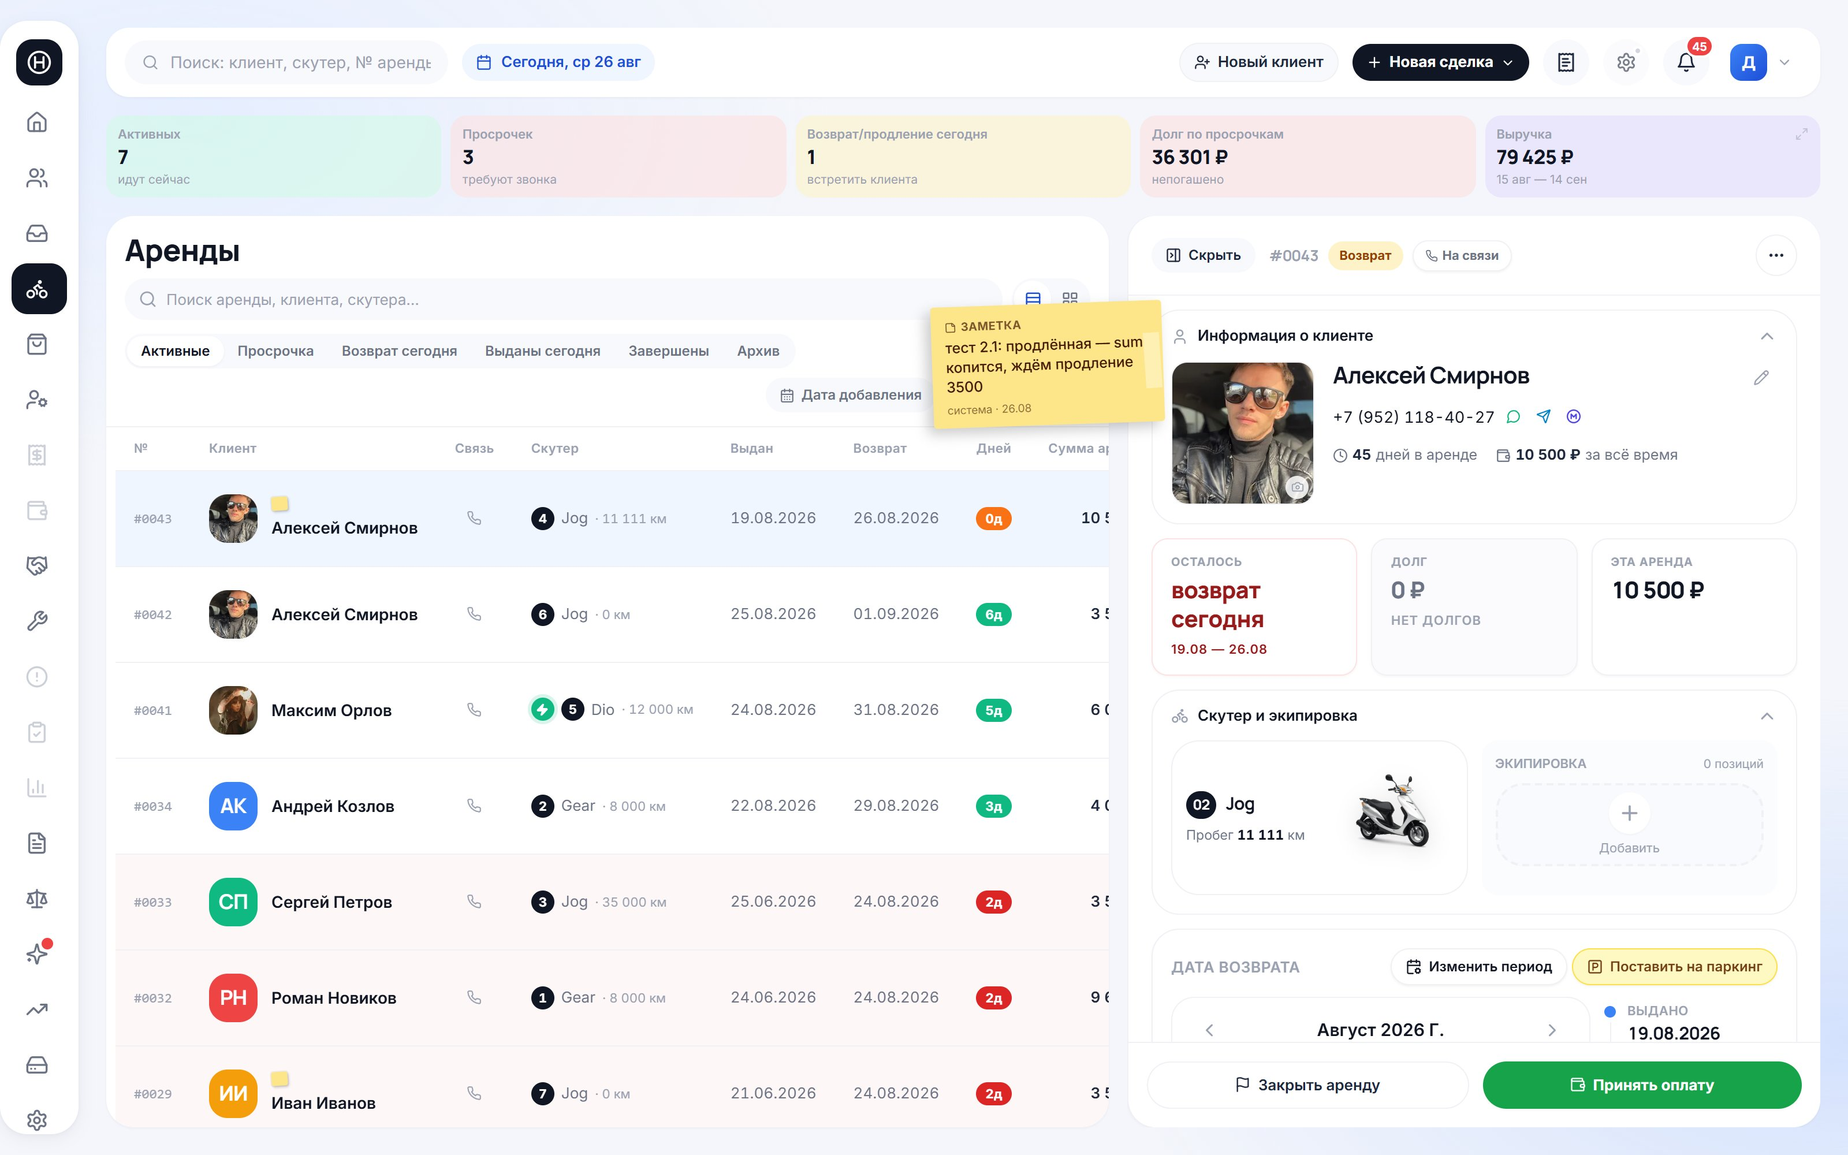
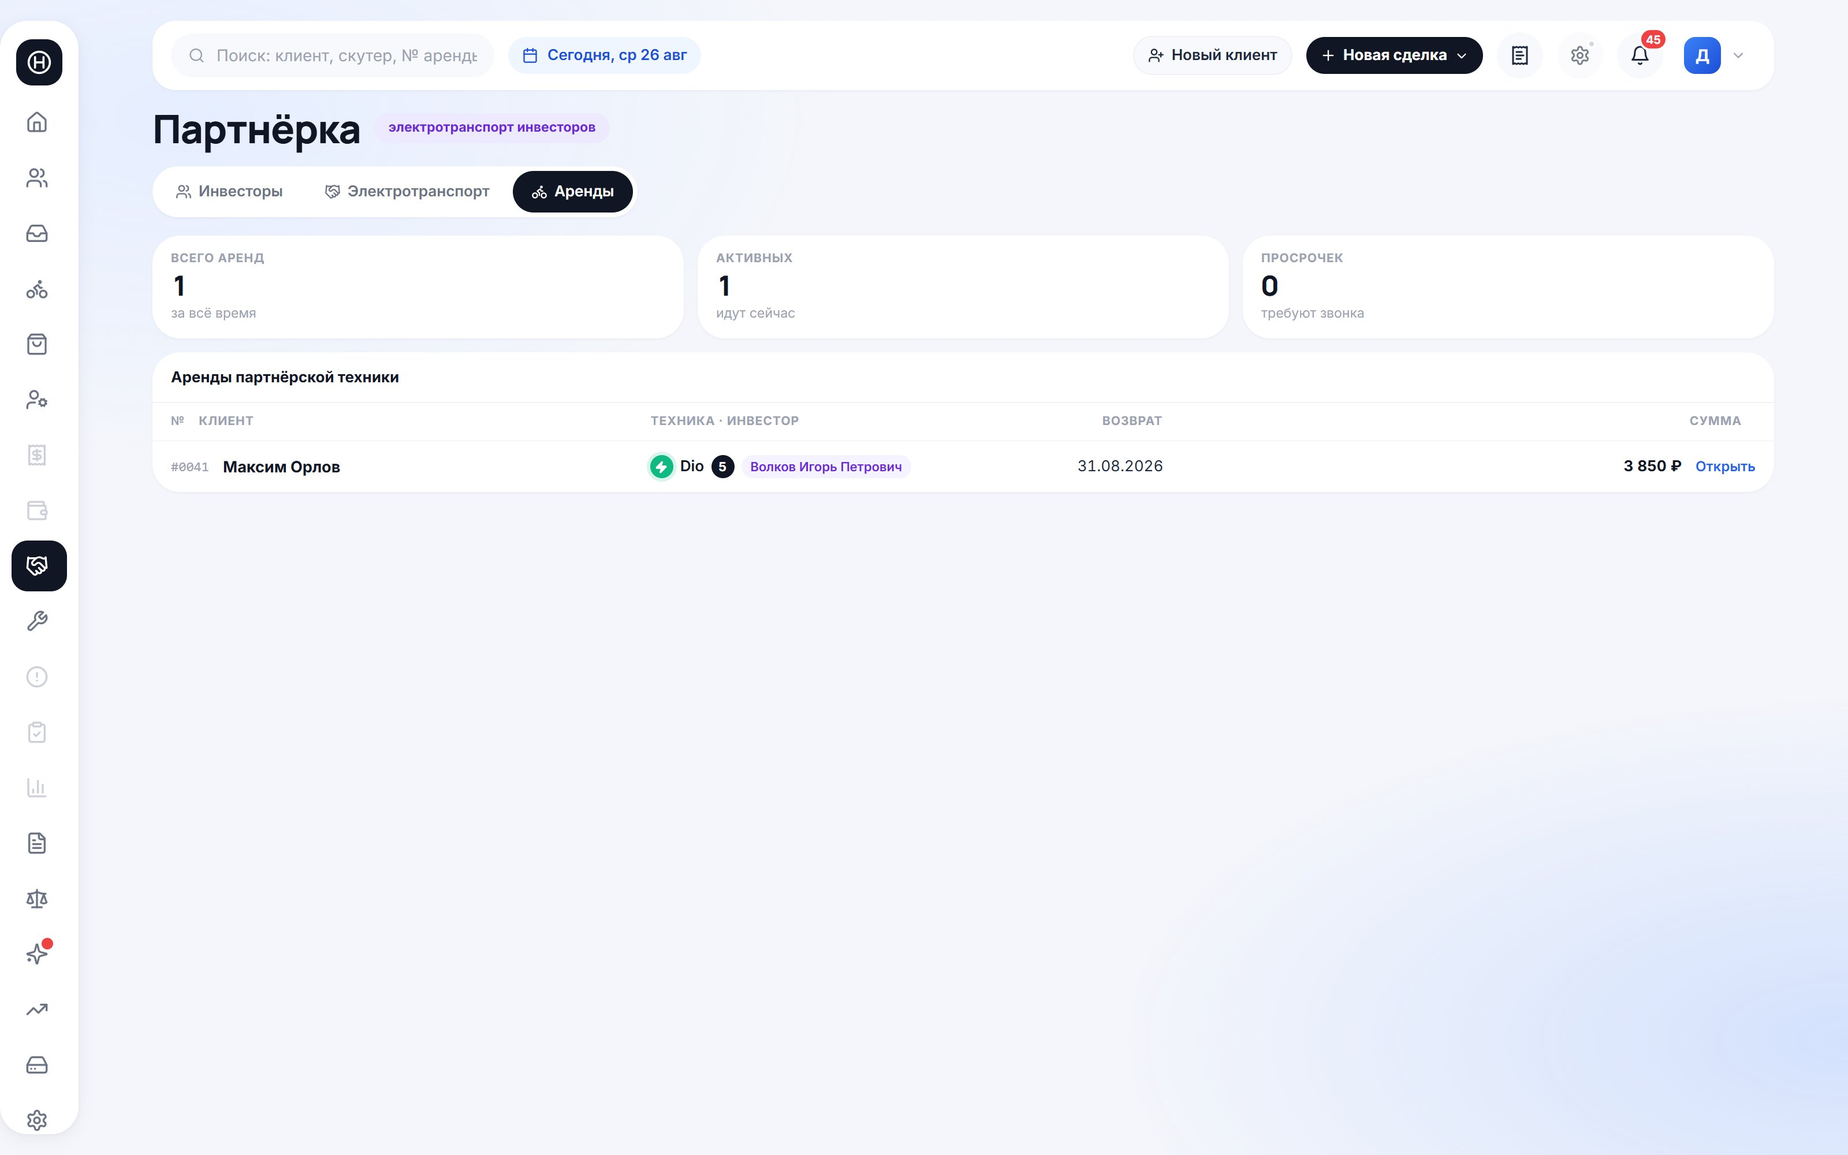
docs(правки-2.0): истории 2.5-2.9 (партнёрка) с кадрами живой проверки

diff --git a/apps/web/src/data/progress.ts b/apps/web/src/data/progress.ts
@@ -1028,7 +1028,24 @@ export const progressItems: ProgressItem[] = [
     title: "Партнёрка — самостоятельное рабочее пространство",
     quote:
       "Партнёрскую программу нужно изолировать… внутри: список всей партнёрской техники, добавление техники с привязкой инвестора, создание инвестора и внутри него всей его техники. Наружу мигрируют только должники — просрочка или день оплаты попадает в общий дашборд с отметкой, что это электричка.",
-    status: "planned",
+    status: "done",
+    note:
+      "«Партнёрка» стала самостоятельным рабочим пространством с тремя вкладками: Инвесторы, Электротранспорт, Аренды. Наружу уходит только долг — он виден на дашборде с отметкой «электричка».",
+    story: [
+      {
+        tag: "fix",
+        text:
+          "Раздел «Партнёрка» теперь открывается своим набором вкладок: «Инвесторы» (кто вложился, сколько техники, какой доход), «Электротранспорт» (сама техника с процентами и расчётом выплат) и «Аренды» — аренды именно партнёрской техники. Всё, что связано с чужими деньгами, живёт в одном месте и не смешивается с нашим парком.",
+        imgs: [
+          { src: "/progress/v2-5-investors.jpg", label: "Пространство «Партнёрка»: три вкладки и сводка по инвесторам" },
+        ],
+      },
+      {
+        tag: "fix",
+        text:
+          "Наружу из партнёрки выходит только то, что просил заказчик: должники. Если по партнёрской аренде просрочка или сегодня день оплаты — она попадает в общий дашборд, но рядом с техникой стоит зелёная отметка-молния: сразу видно, что это электричка инвестора, а не наш скутер.",
+      },
+    ],
   },
   {
     id: "2.6",
@@ -1036,7 +1053,27 @@ export const progressItems: ProgressItem[] = [
     title: "Выплаты инвестору: периодичность, день, график, напоминания",
     quote:
       "Настроить вручную: периодичность выплат (раз в неделю / раз в месяц) и день выплаты. Посчитать оплаты за расчётный период, напоминание «сегодня выплата» с суммой, график выплат с галочкой «выплата произведена», вкладка статистики по ежемесячным выплатам.",
-    status: "planned",
+    status: "done",
+    note:
+      "У каждого инвестора своя периодичность (неделя/месяц) и свой день выплаты. Система сама считает сумму за расчётный период, показывает график и подсвечивает день выплаты; факт отмечается галочкой.",
+    story: [
+      {
+        tag: "fix",
+        text:
+          "В карточке инвестора появился график выплат. Периодичность и день задаются в его форме — «раз в неделю, по пятницам» или «раз в месяц, 5-го числа», у каждого инвестора свои. Дальше система сама режет время на расчётные периоды: например, с прошлой пятницы по эту — и считает по каждому, сколько выплатить (доля инвестора от выручки его техники за эти дни, по тем же правилам, что и общая «Выручка»).",
+        imgs: [
+          { src: "/progress/v2-6-payouts-crop.png", label: "График выплат: периоды, суммы, отметки" },
+        ],
+      },
+      {
+        tag: "fix",
+        text:
+          "Сверху справа — текущий, ещё не закрытый период: «набежало 1 925 ₽ · выплата 28.08.2026 (через 2 дн)», чтобы сумма была понятна заранее, а не только в день расчёта. В сам день выплаты строка подсвечивается и подписывается «сегодня выплата». Отдали деньги — нажали «отметить выплату», строка становится зелёной «выплачено»; ошиблись — снимается тем же кликом. Повторно отметить один период система не даст.",
+        imgs: [
+          { src: "/progress/v2-6-payouts.jpg", label: "Карточка инвестора целиком: метрики, график, его техника" },
+        ],
+      },
+    ],
   },
   {
     id: "2.7",
@@ -1044,7 +1081,19 @@ export const progressItems: ProgressItem[] = [
     title: "Инвестор: техника добавляется через него",
     quote:
       "При добавлении партнёрской техники — возможность добавить инвестора (ФИО), именно через него добавляем скутера… зайдя в инвестора видим количество техники, размер инвестиций и средний ежемесячный доход за любой отрезок времени.",
-    status: "planned",
+    status: "done",
+    note:
+      "Инвестор — отдельная сущность с ФИО, телефоном и настройками выплат. Техника привязывается к нему, поэтому CRM знает, чьи это единицы; в карточке инвестора видно его технику и метрики.",
+    story: [
+      {
+        tag: "fix",
+        text:
+          "В партнёрке добавился справочник инвесторов: ФИО, телефон и настройки выплат. Техника привязывается к инвестору — и с этого момента система понимает, какие единицы чьи: в его карточке перечислена вся его техника с ID и ценой закупа, а привязка автоматически помечает единицу как партнёрскую (отвязали — снова наша).",
+        imgs: [
+          { src: "/progress/v2-6-payouts.jpg", label: "Карточка инвестора: его техника внизу" },
+        ],
+      },
+    ],
   },
   {
     id: "2.8",
@@ -1052,7 +1101,19 @@ export const progressItems: ProgressItem[] = [
     title: "Список инвесторов с инвестициями и доходом",
     quote:
       "Список инвесторов с колонками: ФИО, количество техники, размер инвестиций (стоимость одной техники × количество единиц), средний ежемесячный доход.",
-    status: "planned",
+    status: "done",
+    note:
+      "Главный экран партнёрки — список инвесторов: ФИО с правилом выплат, количество техники, размер инвестиций и средний доход в месяц. Сверху — итоги по всем.",
+    story: [
+      {
+        tag: "fix",
+        text:
+          "Список инвесторов показывает ровно те колонки, что вы просили: ФИО (под ним телефон и правило выплат), количество техники, размер инвестиций и доход в месяц. Инвестиции считаются по ценам закупа его единиц — так точнее, чем одна цена на всех: техника берётся в разное время и по разным ценам. Доход — доля инвестора от выручки его техники, приведённая к месяцу. Сверху три плитки с итогами по всем инвесторам: сколько их, сколько всего вложено и сколько мы выплачиваем в месяц.",
+        imgs: [
+          { src: "/progress/v2-8-investors-crop.png", label: "Список инвесторов и итоги сверху" },
+        ],
+      },
+    ],
   },
   {
     id: "2.9",
@@ -1060,7 +1121,27 @@ export const progressItems: ProgressItem[] = [
     title: "Три сущности партнёрки, изолированные от наших аренд",
     quote:
       "Блок «Партнёрка» содержит три главные сущности: список партнёров, список электротранспорта, таблица аренд. Партнёрская техника и аренды никак не перекликаются со вкладкой аренд наших скутеров — только на дашборде (должники и статистика) с явным разделением.",
-    status: "planned",
+    status: "done",
+    note:
+      "Три сущности на месте: инвесторы, электротранспорт, аренды. Аренды партнёрской техники убраны из общего списка «Аренды» — пересекаются только на дашборде, с отметкой «электричка».",
+    story: [
+      {
+        tag: "fix",
+        text:
+          "Вкладка «Аренды» внутри партнёрки — своя таблица: клиент, техника с отметкой электро и именем инвестора, дата возврата с подсветкой просрочки и сумма. Клик открывает привычную карточку аренды, так что работать с ней можно как обычно. Сверху — свои счётчики: всего аренд, активных, просрочек.",
+        imgs: [
+          { src: "/progress/v2-9-partner-rentals.jpg", label: "Аренды партнёрской техники: клиент, техника, инвестор" },
+        ],
+      },
+      {
+        tag: "fix",
+        text:
+          "И главное — изоляция: в общем списке «Аренды» партнёрской техники больше нет. Проверено вживую: та же аренда Dio ⑤ видна в партнёрке и отсутствует в общем списке (там осталось 6 аренд наших скутеров). Пересечение единственное — дашборд: долги и статистика, где партнёрское помечено явно.",
+        imgs: [
+          { src: "/progress/v2-9-main-rentals.jpg", label: "Общий список аренд: партнёрской техники в нём нет" },
+        ],
+      },
+    ],
   },
   {
     id: "2.10",

diff --git a/ROADMAP.md b/ROADMAP.md
@@ -351,11 +351,11 @@
 - [x] 2.2 Ключ директора на смену рамы/двигателя
 - [x] 2.3 Пробег при возврате обязателен
 - [ ] 2.4 Два чипса загрузки: бензин + электро (партнёрская)
-- [ ] 2.5 Партнёрка — самостоятельное пространство (список техники, добавление, должники → дашборд с отметкой)
-- [ ] 2.6 Выплаты: периодичность/день, график с галочками, напоминания, статистика
-- [ ] 2.7 Инвестор (ФИО), техника через него, метрики инвестора
-- [ ] 2.8 Список инвесторов (ФИО · техника · инвестиции · ср. доход)
-- [ ] 2.9 Три сущности: партнёры / электротранспорт / аренды — изолированы от наших
+- [x] 2.5 Партнёрка — самостоятельное пространство (список техники, добавление, должники → дашборд с отметкой)
+- [x] 2.6 Выплаты: периодичность/день, график с галочками, напоминания, статистика
+- [x] 2.7 Инвестор (ФИО), техника через него, метрики инвестора
+- [x] 2.8 Список инвесторов (ФИО · техника · инвестиции · ср. доход)
+- [x] 2.9 Три сущности: партнёры / электротранспорт / аренды — изолированы от наших
 - [ ] 2.10 Режимы «Скутеров»: аренда/продажа/выкуп/не распределены + новое добавление
 - [ ] 2.11 Договор электровелосипеда
 - [ ] 2.12 Аренда партнёрской техники (переиспользуем обычную)
